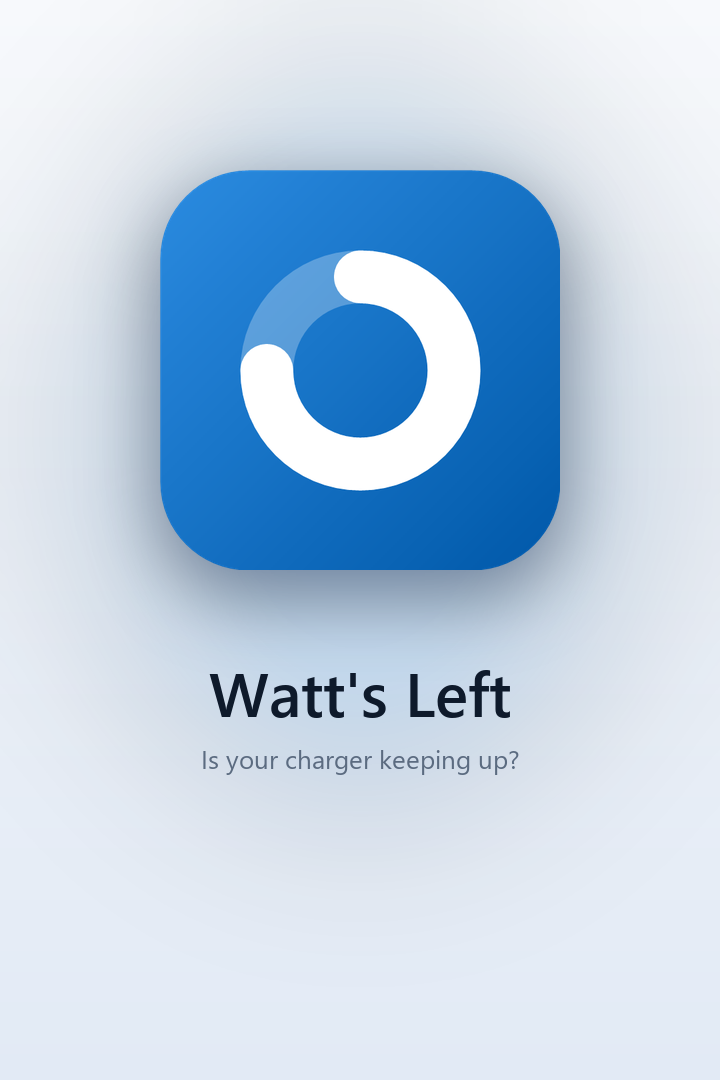
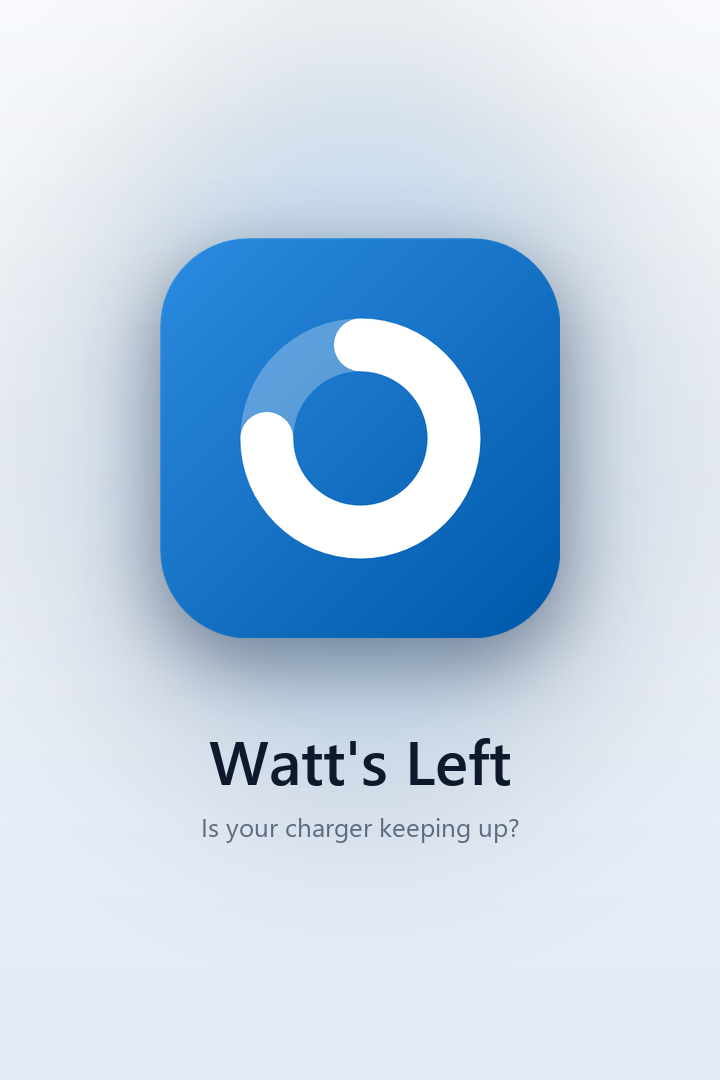
Poster art: the tile and name centred vertically
Claude-Session: https://claude.ai/code/session_01BfWnyjHbq2vtwBEu2N7cpt

Changed region(s): [[0.2139, 0.1528, 0.7944, 0.7333], [0.3972, 0.7639, 0.7028, 0.7944], [0.275, 0.7639, 0.3667, 0.7944]]

diff --git a/Store/make-logos.py b/Store/make-logos.py
@@ -47,11 +47,11 @@ save(c, "boxart-1080.png")
 
 # 2:3 poster: the tile up top, the name and one line beneath in ink
 c = background(720, 1080)
-tile_with_shadow(c, 400, 160, 170)
+tile_with_shadow(c, 400, 160, 238)   # the tile plus the two lines span about 605 px; this centres the group
 d = ImageDraw.Draw(c)
 f1 = ImageFont.truetype(os.path.join(FONTS, "seguisb.ttf"), 62)
 f2 = ImageFont.truetype(os.path.join(FONTS, "segoeui.ttf"), 26)
-for s, f, y, col in (("Watt's Left", f1, 650, INK), ("Is your charger keeping up?", f2, 740, MUTED)):
+for s, f, y, col in (("Watt's Left", f1, 718, INK), ("Is your charger keeping up?", f2, 808, MUTED)):
     d.text(((720 - d.textlength(s, font=f)) / 2, y), s, font=f, fill=col)
 save(c, "poster-720x1080.png")
 
